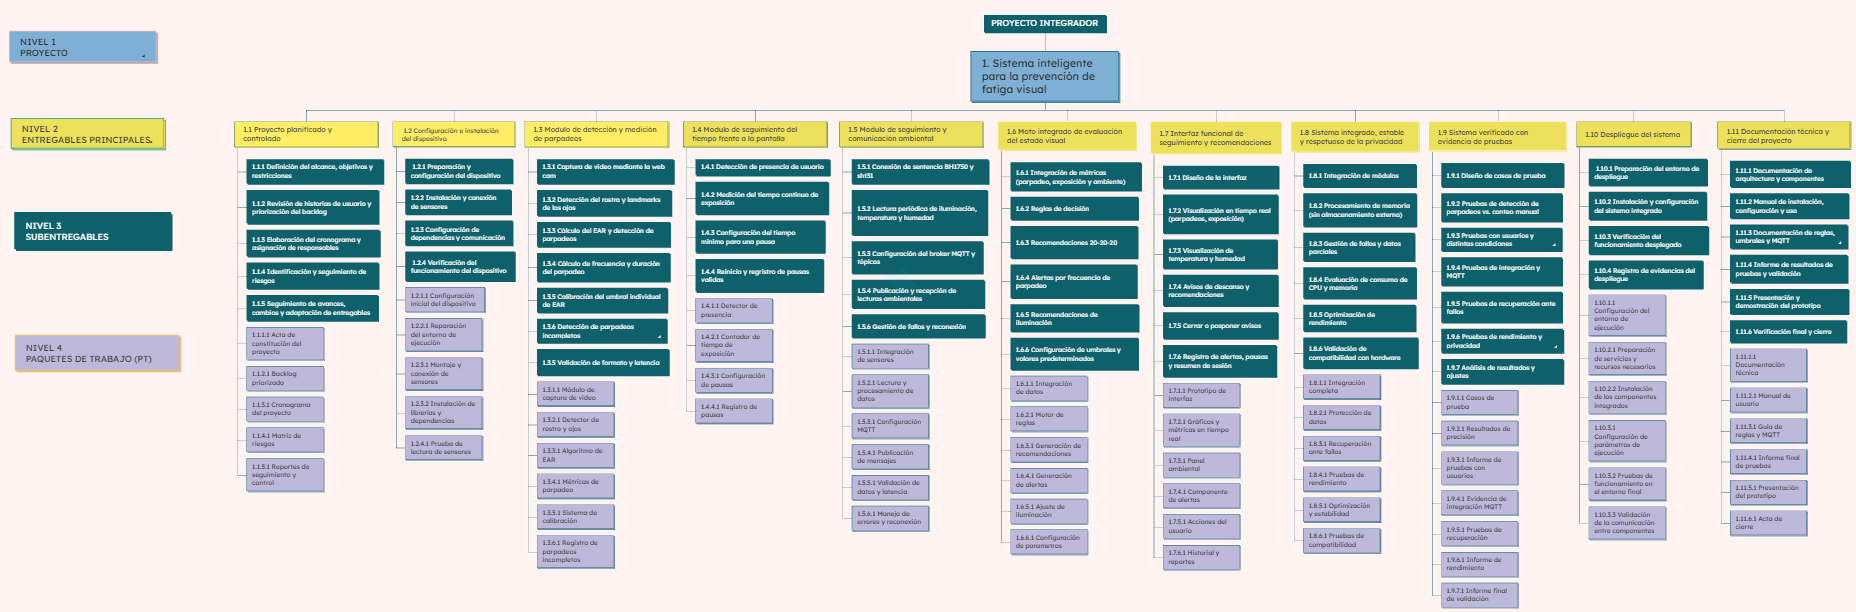
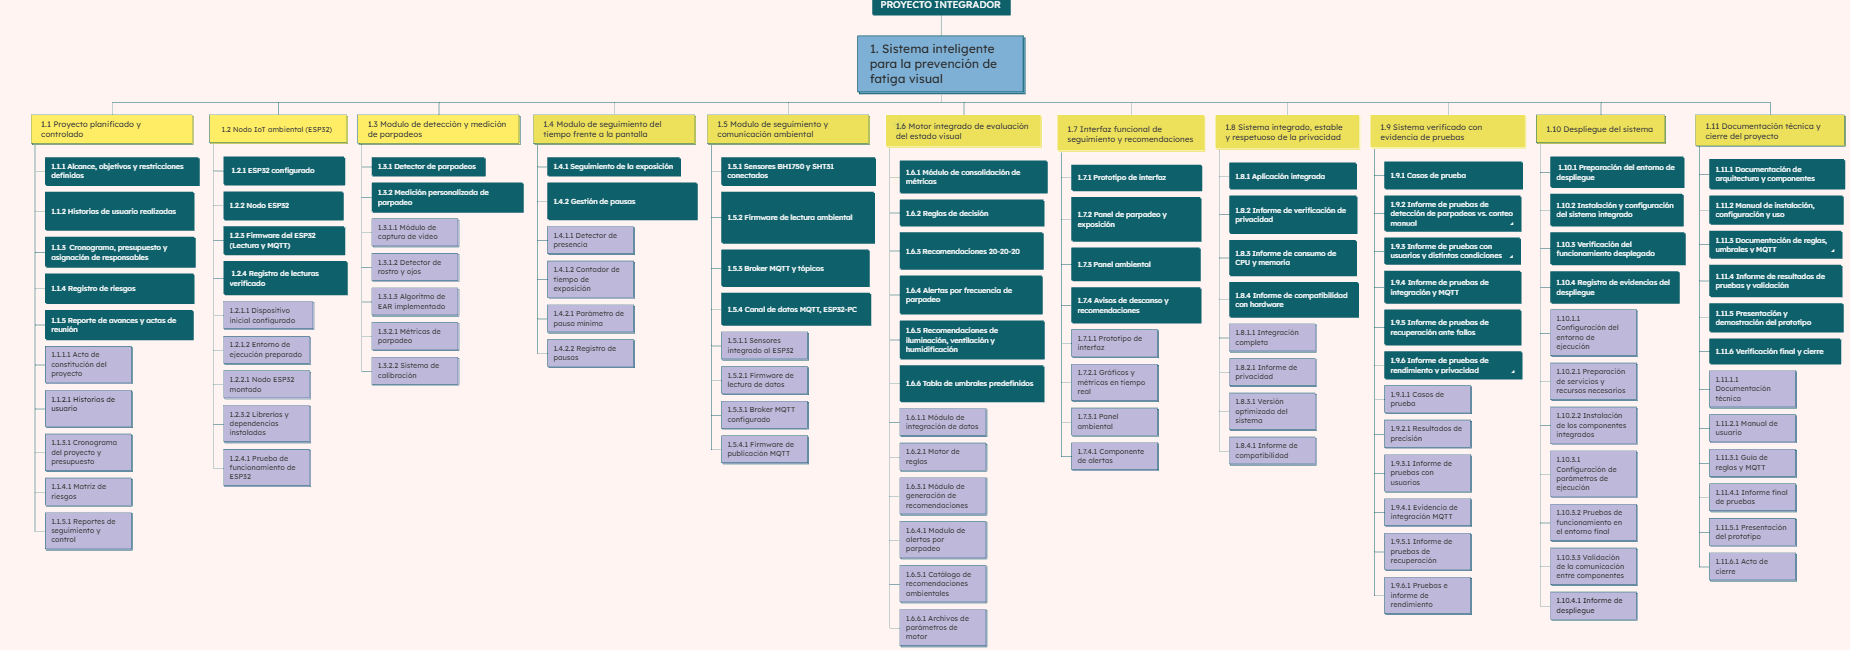
Correcion EDT

diff --git a/docs/edt.md b/docs/edt.md
@@ -4,132 +4,183 @@
 ## Jerarquía del EDT
 
 - **1.0 Sistema inteligente para la prevención de fatiga visual**
-  - **1.1 Gestión del proyecto**
-    - 1.1.1 Documentos de inicio y planificación
+  - **1.1 Proyecto planificado y controlado**
+    - 1.1.1 Alcance, objetivos y restricciones definidos
       - 1.1.1.1 Acta de constitución del proyecto
-      - 1.1.1.2 EDT y diccionario del EDT
-      - 1.1.1.3 Cronograma del proyecto
-      - 1.1.1.4 Presupuesto del proyecto
-    - 1.1.2 Seguimiento y control
-      - 1.1.2.1 Actas de reunión del equipo
-      - 1.1.2.2 Reportes de avance
-      - 1.1.2.3 Registro de riesgos y cambios
+    - 1.1.2 Historias de usuario realizadas
+      - 1.1.2.1 Historias de usuario
+    - 1.1.3 Cronograma, presupuesto y asignación de responsables
+      - 1.1.3.1 Cronograma del proyecto y presupuesto
+    - 1.1.4 Registro de riesgos
+      - 1.1.4.1 Matriz de riesgos
+    - 1.1.5 Reporte de avances y actas de reunión
+      - 1.1.5.1 Reportes de seguimiento y control
   - **1.2 Nodo IoT ambiental (ESP32)**
-    - 1.2.1 Hardware del nodo
-      - 1.2.1.1 Nodo ESP32 con sensores BH1750 y SHT31 montado
-    - 1.2.2 Firmware del nodo
-      - 1.2.2.1 Firmware de lectura de variables ambientales
-      - 1.2.2.2 Firmware de publicación MQTT sobre Wi-Fi
-    - 1.2.3 Verificación del nodo
-      - 1.2.3.1 Registro de lecturas verificadas de los sensores
-  - **1.3 Comunicación MQTT en el PC**
-    - 1.3.1 Broker MQTT
-      - 1.3.1.1 Broker MQTT configurado con tópicos
-    - 1.3.2 Receptor de datos ambientales
-      - 1.3.2.1 Módulo receptor de datos ambientales
-      - 1.3.2.2 Mecanismo de reconexión y manejo de datos faltantes
-  - **1.4 Módulo de monitoreo de parpadeo**
-    - 1.4.1 Captura de video
-      - 1.4.1.1 Módulo de captura de la cámara del PC
-    - 1.4.2 Detección facial
-      - 1.4.2.1 Detector de rostro y puntos de los ojos
-    - 1.4.3 Medición del parpadeo
-      - 1.4.3.1 Algoritmo de EAR y detección de parpadeos
-      - 1.4.3.2 Calibración del umbral de EAR
-      - 1.4.3.3 Métricas de parpadeo
-  - **1.5 Módulo de tiempo de exposición a pantalla**
-    - 1.5.1 Medición del tiempo
-      - 1.5.1.1 Contador de tiempo continuo frente a la pantalla
-    - 1.5.2 Gestión de pausas
-      - 1.5.2.1 Registro de pausas con reinicio del contador
-  - **1.6 Motor de decisión**
-    - 1.6.1 Lógica de decisión
-      - 1.6.1.1 Conjunto de reglas y umbrales
-      - 1.6.1.2 Módulo del motor de decisión
-    - 1.6.2 Recomendaciones
-      - 1.6.2.1 Catálogo de recomendaciones preventivas
-  - **1.7 Dashboard de alertas preventivas**
-    - 1.7.1 Diseño de interfaz
-      - 1.7.1.1 Prototipo de la interfaz
-    - 1.7.2 Visualización de métricas
-      - 1.7.2.1 Panel de parpadeo y tiempo de exposición
-      - 1.7.2.2 Panel ambiental
-    - 1.7.3 Alertas
-      - 1.7.3.1 Componente de alertas y recomendaciones
-  - **1.8 Sistema integrado**
-    - 1.8.1 Integración de módulos
-      - 1.8.1.1 Aplicación integrada
-    - 1.8.2 Optimización
-      - 1.8.2.1 Ajustes de rendimiento aplicados
-  - **1.9 Pruebas y validación**
-    - 1.9.1 Plan de pruebas
+    - 1.2.1 ESP32 configurado
+      - 1.2.1.1 Dispositivo inicial configurado
+      - 1.2.1.2 Entorno de ejecución preparado
+    - 1.2.2 Nodo ESP32
+      - 1.2.2.1 Nodo ESP32 montado
+    - 1.2.3 Firmware del ESP32 (Lectura y MQTT)
+      - 1.2.3.2 Librerías y dependencias instaladas
+    - 1.2.4 Registro de lecturas verificado
+      - 1.2.4.1 Prueba de funcionamiento de ESP32
+  - **1.3 Módulo de detección y medición de parpadeos**
+    - 1.3.1 Detector de parpadeos
+      - 1.3.1.1 Módulo de captura de video
+      - 1.3.1.2 Detector de rostro y ojos
+      - 1.3.1.3 Algoritmo de EAR implementado
+    - 1.3.2 Medición personalizada de parpadeo
+      - 1.3.2.1 Métricas de parpadeo
+      - 1.3.2.2 Sistema de calibración
+  - **1.4 Módulo de seguimiento del tiempo frente a la pantalla**
+    - 1.4.1 Seguimiento de la exposición
+      - 1.4.1.1 Detector de presencia
+      - 1.4.1.2 Contador de tiempo de exposición
+    - 1.4.2 Gestión de pausas
+      - 1.4.2.1 Parámetro de pausa mínima
+      - 1.4.2.2 Registro de pausas
+  - **1.5 Módulo de seguimiento y comunicación ambiental**
+    - 1.5.1 Sensores BH1750 y SHT31 conectados
+      - 1.5.1.1 Sensores integrado al ESP32
+    - 1.5.2 Firmware de lectura ambiental
+      - 1.5.2.1 Firmware de lectura de datos
+    - 1.5.3 Broker MQTT y tópicos
+      - 1.5.3.1 Broker MQTT configurado
+    - 1.5.4 Canal de datos MQTT, ESP32-PC
+      - 1.5.4.1 Firmware de publicación MQTT
+  - **1.6 Motor integrado de evaluación del estado visual**
+    - 1.6.1 Módulo de consolidación de métricas
+      - 1.6.1.1 Módulo de integración de datos
+    - 1.6.2 Reglas de decisión
+      - 1.6.2.1 Motor de reglas
+    - 1.6.3 Recomendaciones 20-20-20
+      - 1.6.3.1 Módulo de generación de recomendaciones
+    - 1.6.4 Alertas por frecuencia de parpadeo
+      - 1.6.4.1 Módulo de alertas por parpadeo
+    - 1.6.5 Recomendaciones de iluminación, ventilación y humidificación
+      - 1.6.5.1 Catálogo de recomendaciones ambientales
+    - 1.6.6 Tabla de umbrales predefinidos
+      - 1.6.6.1 Archivos de parámetros de motor
+  - **1.7 Interfaz funcional de seguimiento y recomendaciones**
+    - 1.7.1 Prototipo de interfaz
+      - 1.7.1.1 Prototipo de interfaz
+    - 1.7.2 Panel de parpadeo y exposición
+      - 1.7.2.1 Gráficos y métricas en tiempo real
+    - 1.7.3 Panel ambiental
+      - 1.7.3.1 Panel ambiental
+    - 1.7.4 Avisos de descanso y recomendaciones
+      - 1.7.4.1 Componente de alertas
+  - **1.8 Sistema integrado, estable y respetuoso de la privacidad**
+    - 1.8.1 Aplicación integrada
+      - 1.8.1.1 Integración completa
+    - 1.8.2 Informe de verificación de privacidad
+      - 1.8.2.1 Informe de privacidad
+    - 1.8.3 Informe de consumo de CPU y memoria
+      - 1.8.3.1 Versión optimizada del sistema
+    - 1.8.4 Informe de compatibilidad con hardware
+      - 1.8.4.1 Informe de compatibilidad
+  - **1.9 Sistema verificado con evidencia de pruebas**
+    - 1.9.1 Casos de prueba
       - 1.9.1.1 Casos de prueba
-    - 1.9.2 Pruebas por criterio de éxito
-      - 1.9.2.1 Informe de exactitud de parpadeos
-      - 1.9.2.2 Informe de latencia MQTT
-      - 1.9.2.3 Informe de coherencia del motor de decisión
-      - 1.9.2.4 Informe de tiempo de despliegue de alertas
-    - 1.9.3 Pruebas del sistema
-      - 1.9.3.1 Informe de pruebas de usabilidad con usuarios
-      - 1.9.3.2 Informe de rendimiento y privacidad
-  - **1.10 Cierre y presentación**
-    - 1.10.1 Entregables finales
-      - 1.10.1.1 Informe final del proyecto
-      - 1.10.1.2 Código fuente en repositorio
-    - 1.10.2 Presentación
-      - 1.10.2.1 Demostración en vivo del prototipo
-    - 1.10.3 Cierre administrativo
-      - 1.10.3.1 Acta de cierre
-
+    - 1.9.2 Informe de pruebas de detección de parpadeos vs. conteo manual
+      - 1.9.2.1 Resultados de precisión
+    - 1.9.3 Informe de pruebas con usuarios y distintas condiciones
+      - 1.9.3.1 Informe de pruebas con usuarios
+    - 1.9.4 Informe de pruebas de integración y MQTT
+      - 1.9.4.1 Evidencia de integración MQTT
+    - 1.9.5 Informe de pruebas de recuperación ante fallos
+      - 1.9.5.1 Informe de pruebas de recuperación
+    - 1.9.6 Informe de pruebas de rendimiento y privacidad
+      - 1.9.6.1 Pruebas e informe de rendimiento
+  - **1.10 Despliegue del sistema**
+    - 1.10.1 Preparación del entorno de despliegue
+      - 1.10.1.1 Configuración del entorno de ejecución
+    - 1.10.2 Instalación y configuración del sistema integrado
+      - 1.10.2.1 Preparación de servicios y recursos necesarios
+      - 1.10.2.2 Instalación de los componentes integrados
+    - 1.10.3 Verificación del funcionamiento desplegado
+      - 1.10.3.1 Configuración de parámetros de ejecución
+      - 1.10.3.2 Pruebas de funcionamiento en el entorno final
+      - 1.10.3.3 Validación de la comunicación entre componentes
+    - 1.10.4 Registro de evidencias del despliegue
+      - 1.10.4.1 Informe de despliegue
+  - **1.11 Documentación técnica y cierre del proyecto**
+    - 1.11.1 Documentación de arquitectura y componentes
+      - 1.11.1.1 Documentación técnica
+    - 1.11.2 Manual de instalación, configuración y uso
+      - 1.11.2.1 Manual de usuario
+    - 1.11.3 Documentación de reglas, umbrales y MQTT
+      - 1.11.3.1 Guía de reglas y MQTT
+    - 1.11.4 Informe de resultados de pruebas y validación
+      - 1.11.4.1 Informe final de pruebas
+    - 1.11.5 Presentación y demostración del prototipo
+      - 1.11.5.1 Presentación del prototipo
+    - 1.11.6 Verificación final y cierre
+      - 1.11.6.1 Acta de cierre
 
 ## Diagrama del EDT
 
-![EDT](images/image.png)
+![EDT](images/Image.png)
 Link para ver mejor: https://www.mindomo.com/mindmap/e885309891254d5a9b609da6db271776
-
 
 ## Diccionario del EDT
 
 | Código | Paquete de trabajo | Descripción |
 | :--- | :--- | :--- |
 | 1.1.1.1 | Acta de constitución del proyecto | Documento aprobado con objetivos, alcance, interesados, riesgos, hitos, presupuesto y firmas. |
-| 1.1.1.2 | EDT y diccionario del EDT | Estructura de desglose de trabajo con codificación jerárquica y descripción de cada paquete de trabajo. |
-| 1.1.1.3 | Cronograma del proyecto | Calendario de entregables entre el 26 oct y el 10 dic de 2026, con responsables asignados. |
-| 1.1.1.4 | Presupuesto del proyecto | Estimación de costos de hardware, infraestructura y horas de desarrollo. |
-| 1.1.2.1 | Actas de reunión del equipo | Registro de acuerdos, decisiones y pendientes de las reuniones del equipo y con el docente. |
-| 1.1.2.2 | Reportes de avance | Informes periódicos del avance frente al cronograma y a los hitos del Acta. |
-| 1.1.2.3 | Registro de riesgos y cambios | Matriz de riesgos actualizada y bitácora de cambios aprobados al alcance. |
-| 1.2.1.1 | Nodo ESP32 con sensores BH1750 y SHT31 montado | ESP32 con los sensores de luz, temperatura y humedad cableados por I2C y alimentado por USB. |
-| 1.2.2.1 | Firmware de lectura de variables ambientales | Programa del ESP32 que lee luxes, temperatura (°C) y humedad relativa (%) de forma periódica. |
-| 1.2.2.2 | Firmware de publicación MQTT sobre Wi-Fi | Programa del ESP32 que se conecta a la red Wi-Fi y publica las lecturas en los tópicos MQTT definidos. |
-| 1.2.3.1 | Registro de lecturas verificadas de los sensores | Evidencia de que los valores de los sensores son coherentes con una referencia o con valores esperados. |
-| 1.3.1.1 | Broker MQTT configurado con tópicos | Mosquitto instalado en el PC, con los tópicos de luz, temperatura y humedad definidos. |
-| 1.3.2.1 | Módulo receptor de datos ambientales | Cliente MQTT del PC que recibe y entrega las lecturas al motor de decisión. |
-| 1.3.2.2 | Mecanismo de reconexión y manejo de datos faltantes | Lógica que reconecta ante caídas de Wi-Fi o del broker y avisa cuando no llegan datos. |
-| 1.4.1.1 | Módulo de captura de la cámara del PC | Componente que obtiene los cuadros de la cámara integrada y los procesa solo en memoria. |
-| 1.4.2.1 | Detector de rostro y puntos de los ojos | Detector basado en MediaPipe que ubica el rostro y los puntos de referencia de ambos ojos. |
-| 1.4.3.1 | Algoritmo de EAR y detección de parpadeos | Cálculo del Eye Aspect Ratio por cuadro y detección de cada parpadeo según el umbral. |
-| 1.4.3.2 | Calibración del umbral de EAR | Procedimiento y valor de umbral ajustado a cada usuario. |
-| 1.4.3.3 | Métricas de parpadeo | Frecuencia de parpadeos por minuto entregada al motor de decisión. |
-| 1.5.1.1 | Contador de tiempo continuo frente a la pantalla | Contador que acumula el tiempo de exposición mientras la cámara detecta al usuario frente a la pantalla. |
-| 1.5.2.1 | Registro de pausas con reinicio del contador | Detección de ausencia suficiente del usuario, con registro de la pausa y reinicio del contador. |
-| 1.6.1.1 | Conjunto de reglas y umbrales | Reglas que combinan parpadeo, tiempo de pantalla, iluminación, temperatura y humedad, con sus valores de umbral. |
-| 1.6.1.2 | Módulo del motor de decisión | Componente que evalúa las reglas en tiempo real y emite el evento de alerta correspondiente. |
-| 1.6.2.1 | Catálogo de recomendaciones preventivas | Mensajes de regla 20-20-20, descanso, ajuste de luz, ventilación y humidificación asociados a cada regla. |
-| 1.7.1.1 | Prototipo de la interfaz | Boceto de las pantallas del dashboard antes de su implementación. |
-| 1.7.2.1 | Panel de parpadeo y tiempo de exposición | Gráficos y valores en tiempo real de la frecuencia de parpadeo y del tiempo frente a la pantalla. |
-| 1.7.2.2 | Panel ambiental | Visualización en tiempo real de luxes, temperatura y humedad relativa. |
-| 1.7.3.1 | Componente de alertas y recomendaciones | Elemento de la interfaz que muestra la recomendación generada por el motor de decisión. |
-| 1.8.1.1 | Aplicación integrada | Aplicación única que une visión artificial, receptor MQTT, motor de decisión y dashboard en el PC. |
-| 1.8.2.1 | Ajustes de rendimiento aplicados | Cambios que reducen el consumo de CPU y memoria y evitan retardos en el video y la interfaz. |
-| 1.9.1.1 | Casos de prueba | Casos de prueba definidos para cada criterio del Acta, incluidos los 20 del motor y los 20 del dashboard. |
-| 1.9.2.1 | Informe de exactitud de parpadeos | Resultados de exactitud frente al conteo manual en pruebas con usuarios (meta ≥ 85 %). |
-| 1.9.2.2 | Informe de latencia MQTT | Resultados de una prueba continua de 10 minutos (meta: latencia < 2 s en el percentil 95). |
-| 1.9.2.3 | Informe de coherencia del motor de decisión | Resultados de los 20 casos de prueba (meta: 95 % de coherencia). |
-| 1.9.2.4 | Informe de tiempo de despliegue de alertas | Resultados de 20 pruebas del tiempo entre la recomendación y su aparición (meta: < 1 s en el 95 %). |
-| 1.9.3.1 | Informe de pruebas de usabilidad con usuarios | Observaciones del usuario final sobre utilidad y molestia de los avisos. |
-| 1.9.3.2 | Informe de rendimiento y privacidad | Medición de CPU y memoria, y verificación de que no se almacena ni transmite video. |
-| 1.10.1.1 | Informe final del proyecto | Documento que consolida resultados, conclusiones y lecciones aprendidas, con referencia a los informes de 1.9. |
-| 1.10.1.2 | Código fuente en repositorio | Código del PC y del ESP32 organizado y publicado en el repositorio de Git. |
-| 1.10.2.1 | Demostración en vivo del prototipo | Sesión de presentación con el prototipo funcionando ante el docente. |
-| 1.10.3.1 | Acta de cierre | Documento firmado que confirma la entrega y la aceptación del proyecto. |
+| 1.1.2.1 | Historias de usuario | Conjunto de historias que describen lo que el usuario espera del sistema, con su prioridad. |
+| 1.1.3.1 | Cronograma del proyecto y presupuesto | Calendario de entregables con responsables, y estimación de costos de hardware, infraestructura y horas. |
+| 1.1.4.1 | Matriz de riesgos | Lista de riesgos del proyecto con su descripción, responsable y respuesta prevista. |
+| 1.1.5.1 | Reportes de seguimiento y control | Informes periódicos de avance y actas de las reuniones del equipo y con el docente. |
+| 1.2.1.1 | Dispositivo inicial configurado | ESP32 con su configuración básica y conexión a la red Wi-Fi lista para programarse. |
+| 1.2.1.2 | Entorno de ejecución preparado | Entorno de desarrollo del ESP32 listo para compilar y cargar el firmware. |
+| 1.2.2.1 | Nodo ESP32 montado | ESP32 con los sensores BH1750 y SHT31 cableados por I2C y alimentado por USB. |
+| 1.2.3.2 | Librerías y dependencias instaladas | Librerías de los sensores, Wi-Fi y MQTT instaladas y disponibles en el entorno del ESP32. |
+| 1.2.4.1 | Prueba de funcionamiento de ESP32 | Evidencia de que el ESP32 entrega lecturas coherentes de luz, temperatura y humedad. |
+| 1.3.1.1 | Módulo de captura de video | Componente que obtiene los cuadros de la cámara integrada y los procesa solo en memoria. |
+| 1.3.1.2 | Detector de rostro y ojos | Detector basado en MediaPipe que ubica el rostro y los puntos de referencia de los ojos. |
+| 1.3.1.3 | Algoritmo de EAR implementado | Cálculo del Eye Aspect Ratio por cuadro y detección de cada parpadeo según el umbral. |
+| 1.3.2.1 | Métricas de parpadeo | Frecuencia de parpadeos por minuto entregada al motor de decisión. |
+| 1.3.2.2 | Sistema de calibración | Procedimiento y valor de umbral de EAR ajustado a cada usuario. |
+| 1.4.1.1 | Detector de presencia | Componente que determina si el usuario está frente a la pantalla a partir de la detección de rostro. |
+| 1.4.1.2 | Contador de tiempo de exposición | Contador que acumula el tiempo continuo frente a la pantalla mientras se detecta al usuario. |
+| 1.4.2.1 | Parámetro de pausa mínima | Valor configurable del tiempo de ausencia necesario para considerar una pausa válida. |
+| 1.4.2.2 | Registro de pausas | Registro de cada pausa válida y reinicio del contador de exposición. |
+| 1.5.1.1 | Sensores integrado al ESP32 | Sensores de luz, temperatura y humedad reconocidos y leídos desde el ESP32. |
+| 1.5.2.1 | Firmware de lectura de datos | Programa del ESP32 que lee luxes, temperatura (°C) y humedad relativa (%) de forma periódica. |
+| 1.5.3.1 | Broker MQTT configurado | Mosquitto instalado en el PC, con los tópicos de luz, temperatura y humedad definidos. |
+| 1.5.4.1 | Firmware de publicación MQTT | Programa del ESP32 que publica las lecturas en los tópicos MQTT y un receptor en el PC que las recibe. |
+| 1.6.1.1 | Módulo de integración de datos | Componente que reúne parpadeo, tiempo de exposición y variables ambientales en un solo estado. |
+| 1.6.2.1 | Motor de reglas | Componente que evalúa las reglas en tiempo real y emite el evento de alerta correspondiente. |
+| 1.6.3.1 | Módulo de generación de recomendaciones | Componente que produce la recomendación de la regla 20-20-20 y de descanso cuando corresponde. |
+| 1.6.4.1 | Módulo de alertas por parpadeo | Componente que genera la alerta cuando la frecuencia de parpadeo cae bajo el umbral. |
+| 1.6.5.1 | Catálogo de recomendaciones ambientales | Mensajes de ajuste de luz, ventilación y humidificación asociados a cada regla. |
+| 1.6.6.1 | Archivos de parámetros de motor | Archivo con los valores de umbral predeterminados que usa el motor de reglas. |
+| 1.7.1.1 | Prototipo de interfaz | Boceto de las pantallas del dashboard antes de su implementación. |
+| 1.7.2.1 | Gráficos y métricas en tiempo real | Gráficos y valores en tiempo real de la frecuencia de parpadeo y del tiempo frente a la pantalla. |
+| 1.7.3.1 | Panel ambiental | Visualización en tiempo real de luxes, temperatura y humedad relativa. |
+| 1.7.4.1 | Componente de alertas | Elemento de la interfaz que muestra la recomendación generada por el motor de decisión. |
+| 1.8.1.1 | Integración completa | Aplicación única que une visión artificial, receptor MQTT, motor de decisión y dashboard en el PC. |
+| 1.8.2.1 | Informe de privacidad | Verificación de que el video se procesa en memoria y no se almacena ni se transmite. |
+| 1.8.3.1 | Versión optimizada del sistema | Versión del sistema con ajustes que reducen el consumo de CPU y memoria y evitan retardos. |
+| 1.8.4.1 | Informe de compatibilidad | Resultado de ejecutar el sistema en el PC y el ESP32 disponibles. |
+| 1.9.1.1 | Casos de prueba | Casos definidos para cada criterio del Acta, incluidos los 20 del motor y los 20 del dashboard. |
+| 1.9.2.1 | Resultados de precisión | Resultados de exactitud frente al conteo manual en pruebas con usuarios (meta ≥ 85 %). |
+| 1.9.3.1 | Informe de pruebas con usuarios | Observaciones del usuario final sobre utilidad de los avisos en distintas condiciones de luz y posición. |
+| 1.9.4.1 | Evidencia de integración MQTT | Resultados de la prueba continua de 10 minutos (meta: latencia < 2 s en el percentil 95). |
+| 1.9.5.1 | Informe de pruebas de recuperación | Resultados de simular caídas de Wi-Fi, del broker o de un sensor y verificar la recuperación. |
+| 1.9.6.1 | Pruebas e informe de rendimiento | Medición de CPU, memoria y tiempo de despliegue de alertas (meta: < 1 s en el 95 %). |
+| 1.10.1.1 | Configuración del entorno de ejecución | Entorno final del PC con Python, OpenCV, MediaPipe y las dependencias instaladas. |
+| 1.10.2.1 | Preparación de servicios y recursos necesarios | Servicios como el broker MQTT y permisos de cámara listos en el PC. |
+| 1.10.2.2 | Instalación de los componentes integrados | Módulos del sistema instalados en el PC y firmware cargado en el ESP32. |
+| 1.10.3.1 | Configuración de parámetros de ejecución | Umbrales, tópicos y direcciones de red ajustados para el entorno final. |
+| 1.10.3.2 | Pruebas de funcionamiento en el entorno final | Evidencia de que el sistema completo funciona en el PC definitivo. |
+| 1.10.3.3 | Validación de la comunicación entre componentes | Evidencia de que el ESP32, el broker, el motor y el dashboard se comunican correctamente. |
+| 1.10.4.1 | Informe de despliegue | Documento con capturas y resultados del despliegue realizado. |
+| 1.11.1.1 | Documentación técnica | Descripción de la arquitectura, los módulos y sus interfaces. |
+| 1.11.2.1 | Manual de usuario | Instrucciones para instalar, configurar y usar el sistema. |
+| 1.11.3.1 | Guía de reglas y MQTT | Descripción de las reglas de decisión, los umbrales y los tópicos MQTT. |
+| 1.11.4.1 | Informe final de pruebas | Documento que consolida los resultados de los informes de la rama 1.9. |
+| 1.11.5.1 | Presentación del prototipo | Presentación y demostración en vivo del prototipo funcionando ante el docente. |
+| 1.11.6.1 | Acta de cierre | Documento firmado que confirma la entrega y la aceptación del proyecto. |
